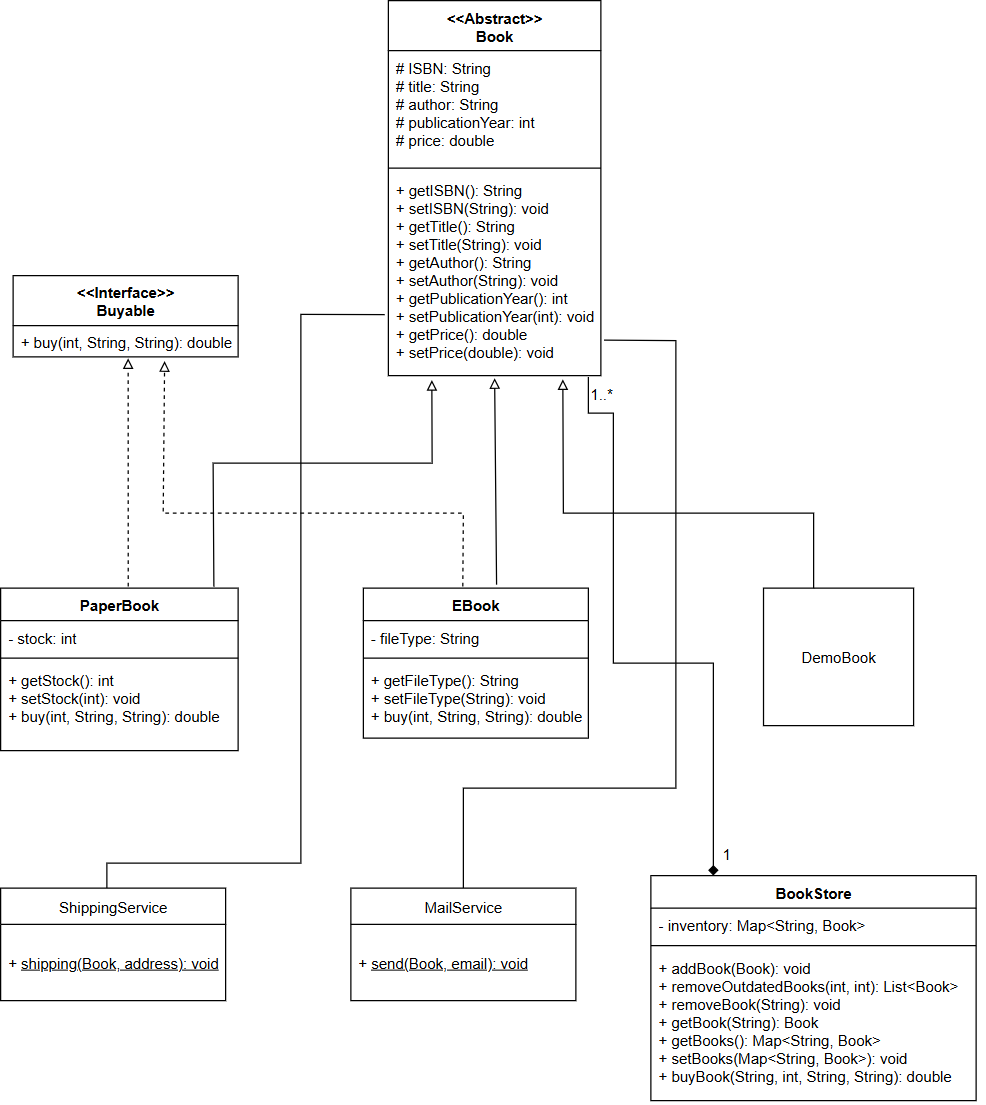
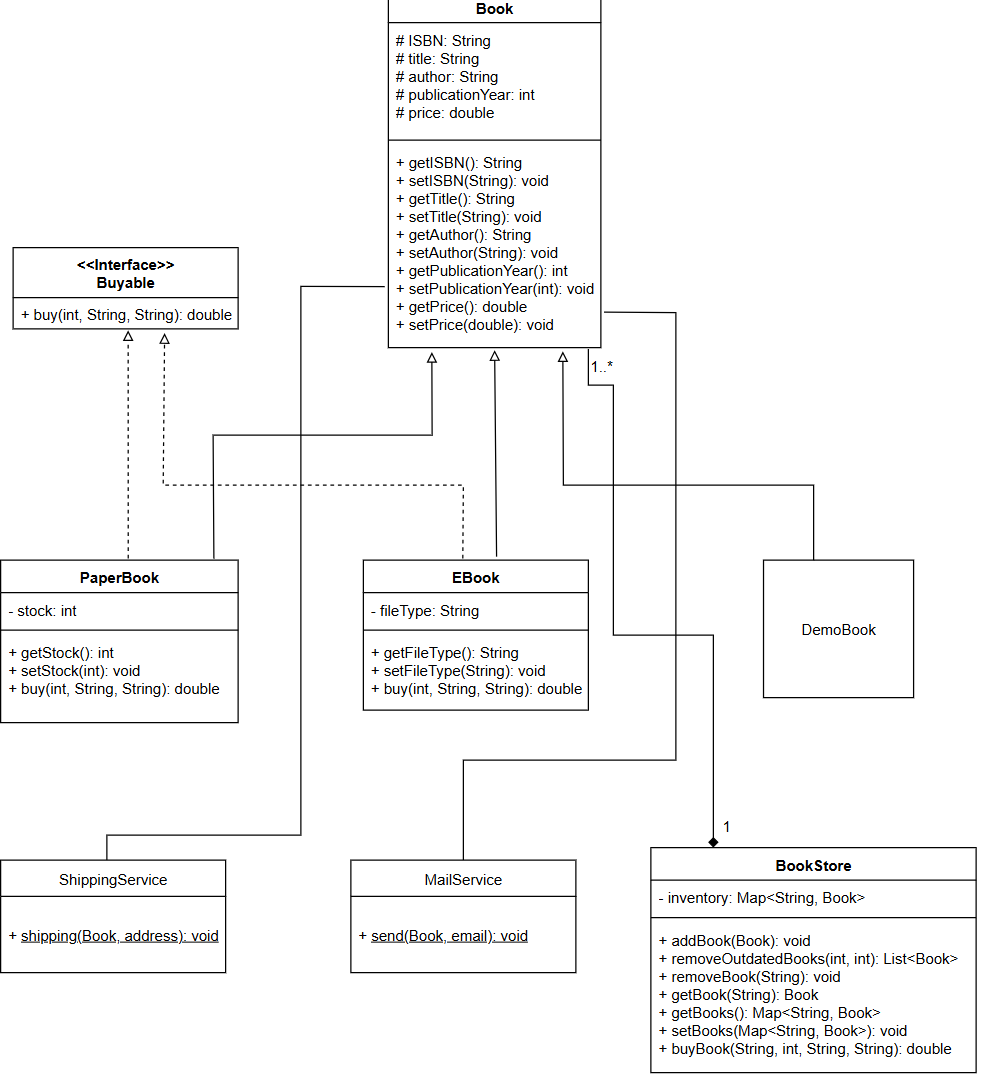
update book class and the uml for the book class

diff --git a/books/Book.java b/books/Book.java
@@ -1,6 +1,6 @@
 package books;
 
-public abstract class Book {
+public class Book {
     protected String ISBN;
     protected String title;
     protected String author;

diff --git a/test/QuantumBookstoreTest.java b/test/QuantumBookstoreTest.java
@@ -2,7 +2,6 @@ package test;
 
 import books.*;
 import store.*;
-import services.*;
 
 import java.util.List;
 
